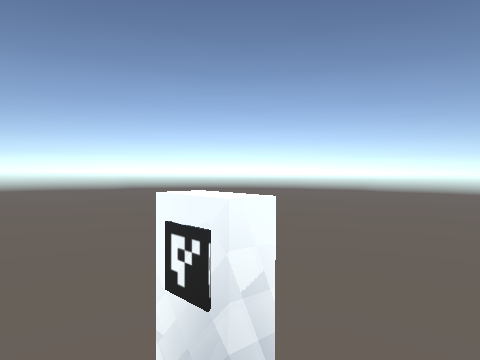
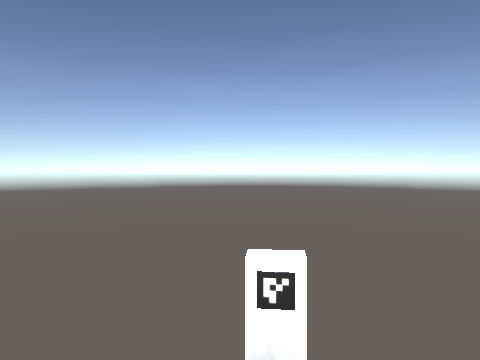
Simulator
Hey

Changed region(s): [[0.3125, 0.4583, 1.0, 1.0]]

diff --git a/visual_servo/src/ibvs_visual_servoing_image.py b/visual_servo/src/ibvs_visual_servoing_image.py
@@ -132,7 +132,12 @@ while True:
         L=np.matlib.zeros((2*4,6))  
         # Gain on controller, essentially sets arm speed, although too high of a value will cause the
         # function to diverge.
-        lam = 0.001
+        lam = np.array([[0.003,0,0,0,0,0],
+        		 [0,0.003,0,0,0,0],
+        		 [0,0,0.003,0,0,0],
+        		 [0,0,0,0.03,0,0],
+        		 [0,0,0,0,0.03,0],
+        		 [0,0,0,0,0,0.03]])
 	
 	#Target features are the detected corners and their xy-positions
         target_feature = corners.flatten()
@@ -150,14 +155,14 @@ while True:
         error = target_feature - target_positions
         print(error)
 	   #The moore-penrose pseudoinverse of matrix is used to determine the velocity screw of the camera
-        vel=-lam*np.dot(np.linalg.pinv(L),error)
+        vel=np.dot(-lam,np.transpose(np.dot(np.linalg.pinv(L),error)))
         #debug=np.linalg.pinv(L)
-        vel_msg.linear.x = vel[0,0] 
-        vel_msg.linear.y = vel[0,1] 
-        vel_msg.linear.z = vel[0,2]  
-        vel_msg.angular.x = vel[0,3]
-        vel_msg.angular.y = vel[0,4]
-        vel_msg.angular.z = vel[0,5]
+        vel_msg.linear.x = vel[0] 
+        vel_msg.linear.y = vel[1] 
+        vel_msg.linear.z = vel[2]  
+        vel_msg.angular.x = vel[3]
+        vel_msg.angular.y = vel[4]
+        vel_msg.angular.z = vel[5]
         velocity_publisher.publish(vel_msg)
 # do a bit of cleanup
 cv2.destroyAllWindows()
